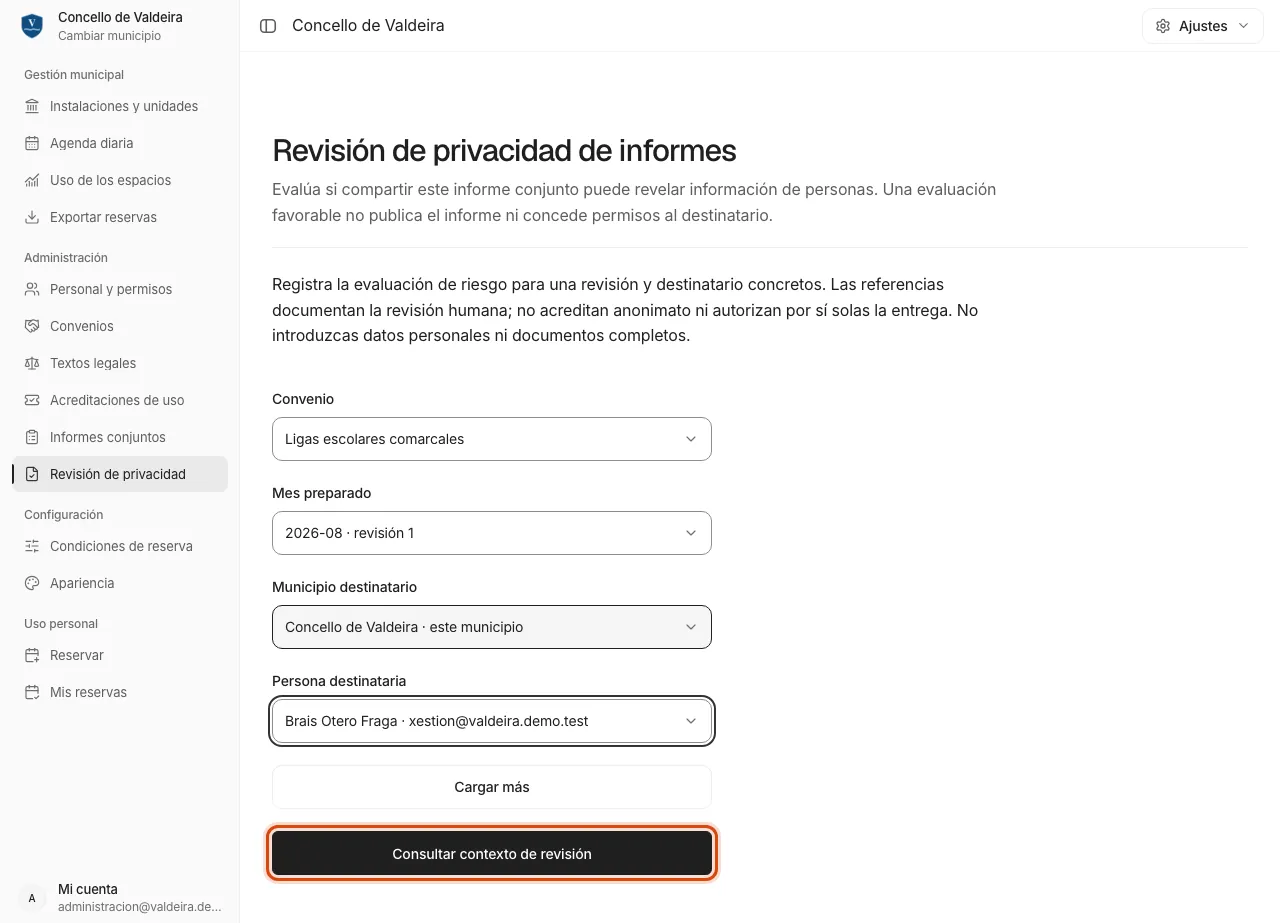
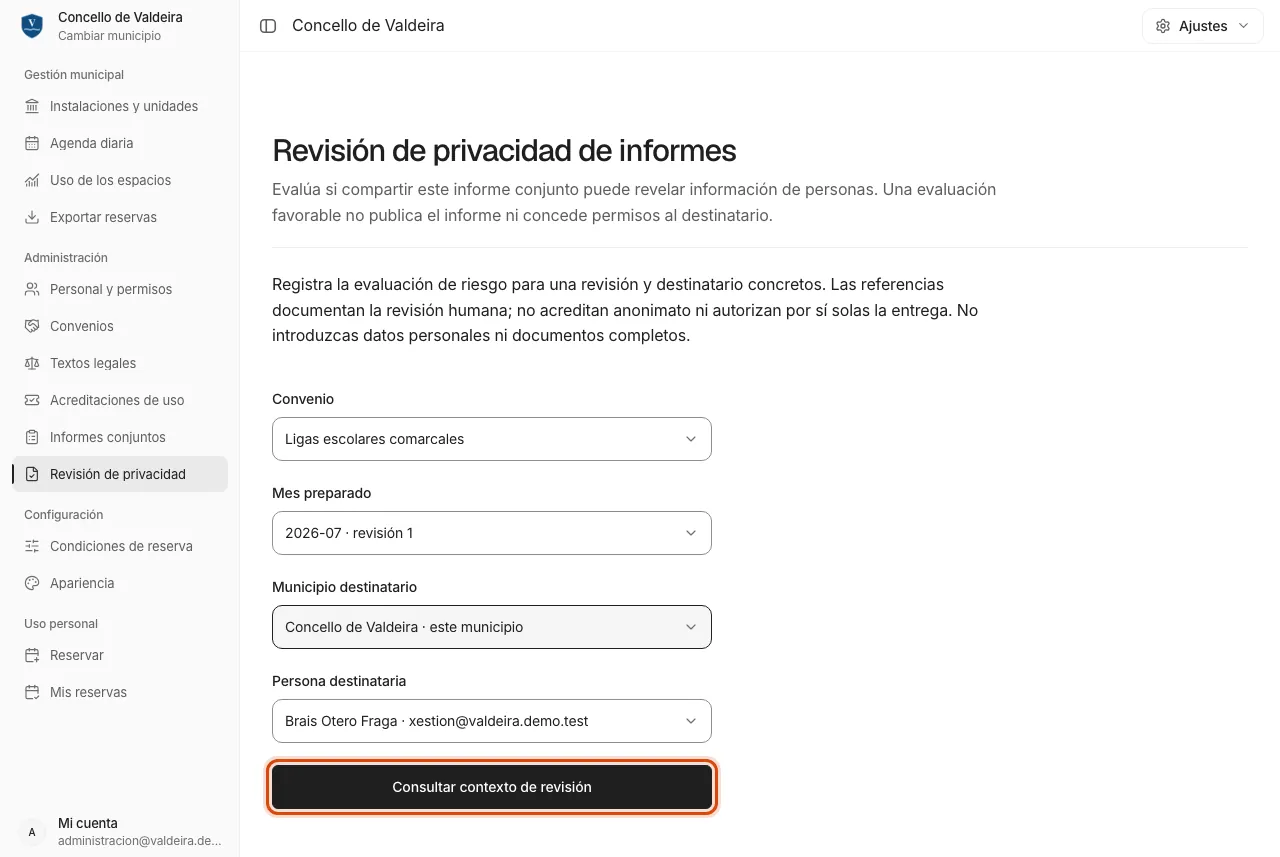
test(docs-capture): place CU-18 report months before the seeded booking history

diff --git a/web/docs-capture/cu-18-informe-conjunto.spec.ts b/web/docs-capture/cu-18-informe-conjunto.spec.ts
@@ -243,8 +243,8 @@ async function review(
 test("CU-18 consultar un informe conjunto", async ({ page, browser }) => {
   test.setTimeout(300000);
   const cu = new Capture("CU-18");
-  const month = closedMonth(3);
-  const following = closedMonth(2);
+  const month = closedMonth(4);
+  const following = closedMonth(3);
   const agreement = await agreementWithHistory(month);
 
   // Precondición: al cerrarse cada mes, Quenda prepara su agregado.
